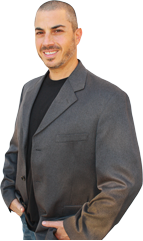
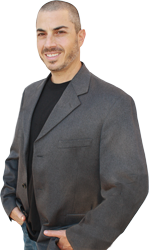
Updated image of myself in header.

diff --git a/src/scss/style.scss b/src/scss/style.scss
@@ -119,7 +119,7 @@ header a h1 {
 }
 
 .masthead .larry {
-    margin-top: -40px;
+    margin-top: -50px;
     position: absolute;
     right: 14em;
 }
